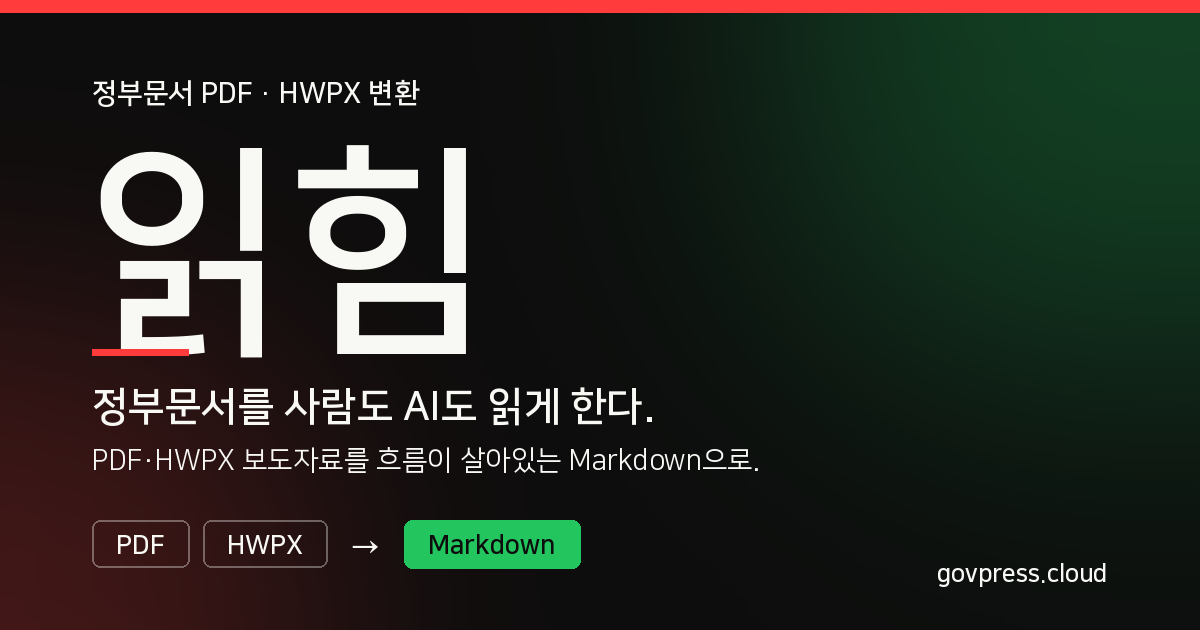
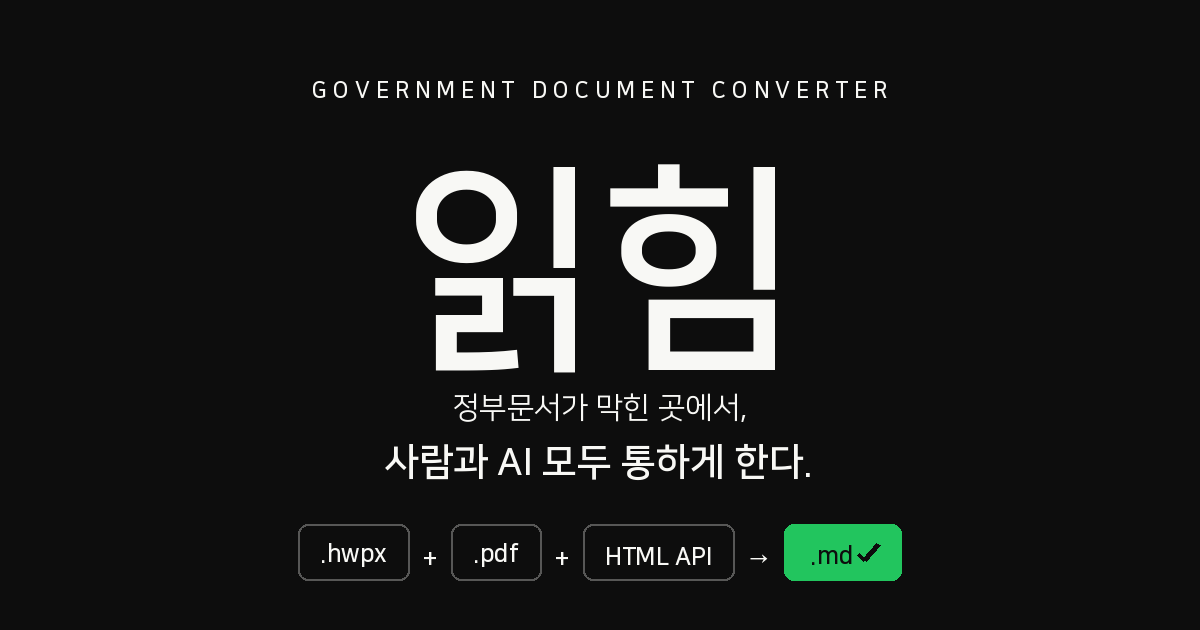
Match social preview to landing hero design
The previous redesign (red top bar, radial glows, separate domain stamp)
diverged from the actual brand language. Pull the OG/Telegram preview
back to the centered editorial composition used in the landing page
hero: GOVERNMENT DOCUMENT CONVERTER eyebrow, large 읽힘 wordmark, two
line tagline, and the .hwpx + .pdf + HTML API → .md ✓ flow.

diff --git a/ui/assets/social-preview.html b/ui/assets/social-preview.html
@@ -19,110 +19,94 @@
       height: 630px;
       margin: 0;
       overflow: hidden;
-      background:
-        radial-gradient(circle at 85% 21%, rgba(34,197,94,.28), transparent 360px),
-        radial-gradient(circle at 8% 86%, rgba(255,59,59,.22), transparent 320px),
-        #0d0d0d;
+      background: #0d0d0d;
       font-family: NanumSquare, sans-serif;
       color: #f8f8f5;
-    }
-    .frame {
-      position: relative;
-      width: 100%;
-      height: 100%;
-      padding: 78px 92px;
-    }
-    .top-bar {
-      position: absolute;
-      top: 0; left: 0; right: 0;
-      height: 12px;
-      background: #ff3b3b;
+      display: flex;
+      flex-direction: column;
+      align-items: center;
+      justify-content: flex-start;
+      padding-top: 78px;
     }
     .eyebrow {
-      color: rgba(248,248,245,.55);
-      font-size: 28px;
+      font-size: 22px;
       font-weight: 800;
-      margin-bottom: 16px;
+      letter-spacing: 0.32em;
+      color: rgba(248,248,245,.45);
     }
     .title {
-      font-size: 224px;
-      line-height: .9;
+      font-size: 220px;
+      line-height: 1;
       font-weight: 800;
-      margin: 0;
-      letter-spacing: -2px;
+      margin: 60px 0 36px;
+      letter-spacing: -0.02em;
     }
-    .underline {
-      width: 96px;
-      height: 6px;
-      background: #ff3b3b;
-      margin: 6px 0 30px;
-    }
-    .tagline {
-      font-size: 40px;
-      font-weight: 800;
-      margin: 0 0 14px;
-    }
-    .sub {
-      font-size: 28px;
+    .tag-sub {
+      font-size: 30px;
       font-weight: 400;
-      color: rgba(248,248,245,.7);
+      color: rgba(248,248,245,.66);
+      margin: 0 0 12px;
+    }
+    .tag-main {
+      font-size: 38px;
+      font-weight: 800;
       margin: 0;
     }
     .flow {
-      position: absolute;
-      left: 92px;
-      bottom: 88px;
       display: flex;
       align-items: center;
       gap: 14px;
+      margin-top: auto;
+      margin-bottom: 56px;
     }
     .chip {
-      padding: 14px 24px;
-      border: 2px solid rgba(248,248,245,.36);
-      border-radius: 8px;
-      color: rgba(248,248,245,.78);
-      font-size: 26px;
+      padding: 0 22px;
+      height: 56px;
+      border: 2px solid rgba(248,248,245,.32);
+      border-radius: 10px;
+      color: rgba(248,248,245,.86);
+      font-size: 24px;
       font-weight: 800;
+      display: flex;
+      align-items: center;
     }
-    .arrow {
-      color: rgba(248,248,245,.7);
-      font-size: 36px;
-      font-weight: 800;
-      margin: 0 8px;
-    }
-    .result {
-      padding: 14px 28px;
-      background: #22c55e;
-      border-radius: 8px;
-      color: #0d0d0d;
-      font-size: 26px;
-      font-weight: 800;
-    }
-    .domain {
-      position: absolute;
-      right: 92px;
-      bottom: 70px;
+    .glue {
       color: rgba(248,248,245,.5);
       font-size: 24px;
       font-weight: 800;
     }
+    .arrow {
+      color: rgba(248,248,245,.62);
+      font-size: 24px;
+      font-weight: 800;
+    }
+    .result {
+      padding: 0 22px;
+      height: 56px;
+      background: #22c55e;
+      color: #0d0d0d;
+      border-radius: 10px;
+      font-size: 24px;
+      font-weight: 800;
+      display: flex;
+      align-items: center;
+      gap: 8px;
+    }
   </style>
 </head>
 <body>
-  <main class="frame">
-    <div class="top-bar"></div>
-    <div class="eyebrow">정부문서 PDF · HWPX 변환</div>
-    <h1 class="title">읽힘</h1>
-    <div class="underline"></div>
-    <p class="tagline">정부문서를 사람도 AI도 읽게 한다.</p>
-    <p class="sub">PDF·HWPX 보도자료를 흐름이 살아있는 Markdown으로.</p>
-    <div class="flow" aria-hidden="true">
-      <div class="chip">PDF</div>
-      <div class="chip">HWPX</div>
-      <div class="arrow">→</div>
-      <div class="result">Markdown</div>
-    </div>
-    <div class="domain">govpress.cloud</div>
-  </main>
+  <div class="eyebrow">GOVERNMENT DOCUMENT CONVERTER</div>
+  <h1 class="title">읽힘</h1>
+  <p class="tag-sub">정부문서가 막힌 곳에서,</p>
+  <p class="tag-main">사람과 AI 모두 통하게 한다.</p>
+  <div class="flow" aria-hidden="true">
+    <div class="chip">.hwpx</div>
+    <div class="glue">+</div>
+    <div class="chip">.pdf</div>
+    <div class="glue">+</div>
+    <div class="chip">HTML API</div>
+    <div class="arrow">→</div>
+    <div class="result">.md ✓</div>
+  </div>
 </body>
 </html>

diff --git a/scripts/build_social_preview.py b/scripts/build_social_preview.py
@@ -2,7 +2,7 @@
 """Render the social preview image used for Telegram / OG link previews."""
 from pathlib import Path
 
-from PIL import Image, ImageDraw, ImageFilter, ImageFont
+from PIL import Image, ImageDraw, ImageFont
 
 ROOT = Path(__file__).resolve().parents[1]
 OUTPUT = ROOT / "ui" / "assets" / "social-preview.png"
@@ -10,7 +10,6 @@ OUTPUT = ROOT / "ui" / "assets" / "social-preview.png"
 WIDTH, HEIGHT = 1200, 630
 INK = (13, 13, 13)
 PAPER = (248, 248, 245)
-RED = (255, 59, 59)
 GREEN = (34, 197, 94)
 
 FONT_BOLD = "/usr/share/fonts/truetype/nanum/NanumSquareB.ttf"
@@ -21,95 +20,136 @@ def _font(path: str, size: int) -> ImageFont.FreeTypeFont:
     return ImageFont.truetype(path, size=size)
 
 
-def _radial_glow(size: tuple[int, int], center: tuple[int, int], radius: int, color: tuple[int, int, int], alpha: int) -> Image.Image:
-    glow = Image.new("RGBA", size, (0, 0, 0, 0))
-    draw = ImageDraw.Draw(glow)
-    draw.ellipse(
-        (center[0] - radius, center[1] - radius, center[0] + radius, center[1] + radius),
-        fill=(*color, alpha),
-    )
-    return glow.filter(ImageFilter.GaussianBlur(radius // 2))
+def _measure(draw: ImageDraw.ImageDraw, text: str, font: ImageFont.FreeTypeFont):
+    return draw.textbbox((0, 0), text, font=font, anchor="lt")
 
 
-def _text_size(draw: ImageDraw.ImageDraw, text: str, font: ImageFont.FreeTypeFont) -> tuple[int, int]:
-    left, top, right, bottom = draw.textbbox((0, 0), text, font=font)
-    return right - left, bottom - top
+def _draw_centered(draw: ImageDraw.ImageDraw, y: int, text: str, font: ImageFont.FreeTypeFont, fill, *, tracking: int = 0) -> None:
+    if tracking == 0:
+        bbox = _measure(draw, text, font)
+        w = bbox[2] - bbox[0]
+        x = (WIDTH - w) // 2 - bbox[0]
+        draw.text((x, y), text, font=font, fill=fill)
+        return
+
+    widths = []
+    for ch in text:
+        bbox = _measure(draw, ch, font)
+        widths.append(bbox[2] - bbox[0])
+    total = sum(widths) + tracking * max(0, len(text) - 1)
+    x = (WIDTH - total) // 2
+    for ch, w in zip(text, widths):
+        bbox = _measure(draw, ch, font)
+        draw.text((x - bbox[0], y), ch, font=font, fill=fill)
+        x += w + tracking
 
 
-def _chip(draw: ImageDraw.ImageDraw, xy: tuple[int, int], text: str, font: ImageFont.FreeTypeFont, *, filled: bool) -> int:
-    pad_x, pad_y = 24, 14
-    tw, th = _text_size(draw, text, font)
-    box_w = tw + pad_x * 2
-    box_h = th + pad_y * 2
-    x, y = xy
-    if filled:
-        draw.rounded_rectangle((x, y, x + box_w, y + box_h), radius=8, fill=GREEN)
-        draw.text((x + pad_x, y + pad_y - 4), text, font=font, fill=INK)
-    else:
-        draw.rounded_rectangle(
-            (x, y, x + box_w, y + box_h),
-            radius=8,
-            outline=(*PAPER, 90),
-            width=2,
-        )
-        draw.text((x + pad_x, y + pad_y - 4), text, font=font, fill=(*PAPER, 200))
-    return box_w
+def _draw_check(draw: ImageDraw.ImageDraw, center: tuple[int, int], color, *, size: int = 18, weight: int = 5) -> None:
+    cx, cy = center
+    half = size // 2
+    p1 = (cx - half, cy + 1)
+    p2 = (cx - half // 3, cy + half - 2)
+    p3 = (cx + half + 2, cy - half)
+    draw.line([p1, p2], fill=color, width=weight)
+    draw.line([p2, p3], fill=color, width=weight)
 
 
 def render() -> None:
     canvas = Image.new("RGB", (WIDTH, HEIGHT), INK)
-
-    glow_green = _radial_glow((WIDTH, HEIGHT), (1020, 130), 360, GREEN, 70)
-    glow_red = _radial_glow((WIDTH, HEIGHT), (90, 540), 320, RED, 55)
-    canvas = Image.alpha_composite(canvas.convert("RGBA"), glow_green)
-    canvas = Image.alpha_composite(canvas, glow_red).convert("RGB")
-
     draw = ImageDraw.Draw(canvas, "RGBA")
 
-    draw.rectangle((0, 0, WIDTH, 12), fill=RED)
+    eyebrow_font = _font(FONT_BOLD, 22)
+    title_font = _font(FONT_BOLD, 220)
+    tag_main_font = _font(FONT_BOLD, 38)
+    tag_sub_font = _font(FONT_REG, 30)
+    flow_font = _font(FONT_BOLD, 24)
 
-    pad_left = 92
-    eyebrow_font = _font(FONT_BOLD, 28)
-    title_font = _font(FONT_BOLD, 224)
-    tagline_font = _font(FONT_BOLD, 40)
-    sub_font = _font(FONT_REG, 28)
-    chip_font = _font(FONT_BOLD, 26)
-    domain_font = _font(FONT_BOLD, 24)
-
-    eyebrow = "정부문서 PDF · HWPX 변환"
-    draw.text((pad_left, 78), eyebrow, font=eyebrow_font, fill=(*PAPER, 140))
+    eyebrow_y = 78
+    _draw_centered(draw, eyebrow_y, "GOVERNMENT DOCUMENT CONVERTER",
+                   eyebrow_font, (*PAPER, 110), tracking=6)
 
     title = "읽힘"
-    draw.text((pad_left - 8, 132), title, font=title_font, fill=PAPER)
+    title_bbox = _measure(draw, title, title_font)
+    title_w = title_bbox[2] - title_bbox[0]
+    title_h = title_bbox[3] - title_bbox[1]
+    title_x = (WIDTH - title_w) // 2 - title_bbox[0]
+    title_y = 152
+    draw.text((title_x, title_y), title, font=title_font, fill=PAPER)
+    title_baseline = title_y + title_h + title_bbox[1]
 
-    title_w, title_h = _text_size(draw, title, title_font)
-    underline_y = 132 + title_h + 4
-    draw.rectangle(
-        (pad_left, underline_y, pad_left + 96, underline_y + 6),
-        fill=RED,
-    )
+    tag_y = title_baseline + 30
+    _draw_centered(draw, tag_y, "정부문서가 막힌 곳에서,",
+                   tag_sub_font, (*PAPER, 165))
+    _draw_centered(draw, tag_y + 50, "사람과 AI 모두 통하게 한다.",
+                   tag_main_font, PAPER)
 
-    tagline = "정부문서를 사람도 AI도 읽게 한다."
-    draw.text((pad_left, underline_y + 36), tagline, font=tagline_font, fill=PAPER)
+    flow_y = HEIGHT - 78
+    pad_x_chip = 22
+    box_h = 56
+    gap = 14
 
-    sub = "PDF·HWPX 보도자료를 흐름이 살아있는 Markdown으로."
-    draw.text((pad_left, underline_y + 96), sub, font=sub_font, fill=(*PAPER, 175))
+    parts = [
+        ("chip", ".hwpx"),
+        ("plus", "+"),
+        ("chip", ".pdf"),
+        ("plus", "+"),
+        ("chip", "HTML API"),
+        ("arrow", "→"),
+        ("result", ".md"),
+    ]
 
-    chip_y = HEIGHT - 110
-    cursor_x = pad_left
-    cursor_x += _chip(draw, (cursor_x, chip_y), "PDF", chip_font, filled=False) + 14
-    cursor_x += _chip(draw, (cursor_x, chip_y), "HWPX", chip_font, filled=False) + 22
+    sized = []
+    for kind, text in parts:
+        bbox = _measure(draw, text, flow_font)
+        w = bbox[2] - bbox[0]
+        h = bbox[3] - bbox[1]
+        if kind in ("chip", "result"):
+            box_w = w + pad_x_chip * 2
+            if kind == "result":
+                box_w += 30  # extra room for the check mark
+        else:
+            box_w = w
+        sized.append((kind, text, bbox, w, h, box_w))
 
-    arrow_font = _font(FONT_BOLD, 36)
-    aw, ah = _text_size(draw, "→", arrow_font)
-    draw.text((cursor_x, chip_y + 8), "→", font=arrow_font, fill=(*PAPER, 175))
-    cursor_x += aw + 22
+    total_w = sum(s[5] for s in sized) + gap * (len(sized) - 1)
+    cursor = (WIDTH - total_w) // 2
 
-    _chip(draw, (cursor_x, chip_y), "Markdown", chip_font, filled=True)
-
-    domain = "govpress.cloud"
-    dw, _ = _text_size(draw, domain, domain_font)
-    draw.text((WIDTH - pad_left - dw, HEIGHT - 70), domain, font=domain_font, fill=(*PAPER, 130))
+    for kind, text, bbox, w, h, box_w in sized:
+        if kind == "chip":
+            y = flow_y - box_h // 2
+            draw.rounded_rectangle(
+                (cursor, y, cursor + box_w, y + box_h),
+                radius=10,
+                outline=(*PAPER, 80),
+                width=2,
+            )
+            tx = cursor + (box_w - w) // 2 - bbox[0]
+            ty = y + (box_h - h) // 2 - bbox[1]
+            draw.text((tx, ty), text, font=flow_font, fill=(*PAPER, 220))
+        elif kind == "result":
+            y = flow_y - box_h // 2
+            draw.rounded_rectangle(
+                (cursor, y, cursor + box_w, y + box_h),
+                radius=10,
+                fill=GREEN,
+            )
+            content_w = w + 22
+            content_x = cursor + (box_w - content_w) // 2
+            tx = content_x - bbox[0]
+            ty = y + (box_h - h) // 2 - bbox[1]
+            draw.text((tx, ty), text, font=flow_font, fill=INK)
+            check_cx = content_x + w + 14
+            check_cy = y + box_h // 2 + 1
+            _draw_check(draw, (check_cx, check_cy), INK, size=18, weight=5)
+        elif kind == "plus":
+            tx = cursor - bbox[0]
+            ty = flow_y - h // 2 - bbox[1]
+            draw.text((tx, ty), text, font=flow_font, fill=(*PAPER, 130))
+        elif kind == "arrow":
+            tx = cursor - bbox[0]
+            ty = flow_y - h // 2 - bbox[1]
+            draw.text((tx, ty), text, font=flow_font, fill=(*PAPER, 160))
+        cursor += box_w + gap
 
     OUTPUT.parent.mkdir(parents=True, exist_ok=True)
     canvas.save(OUTPUT, format="PNG", optimize=True)
